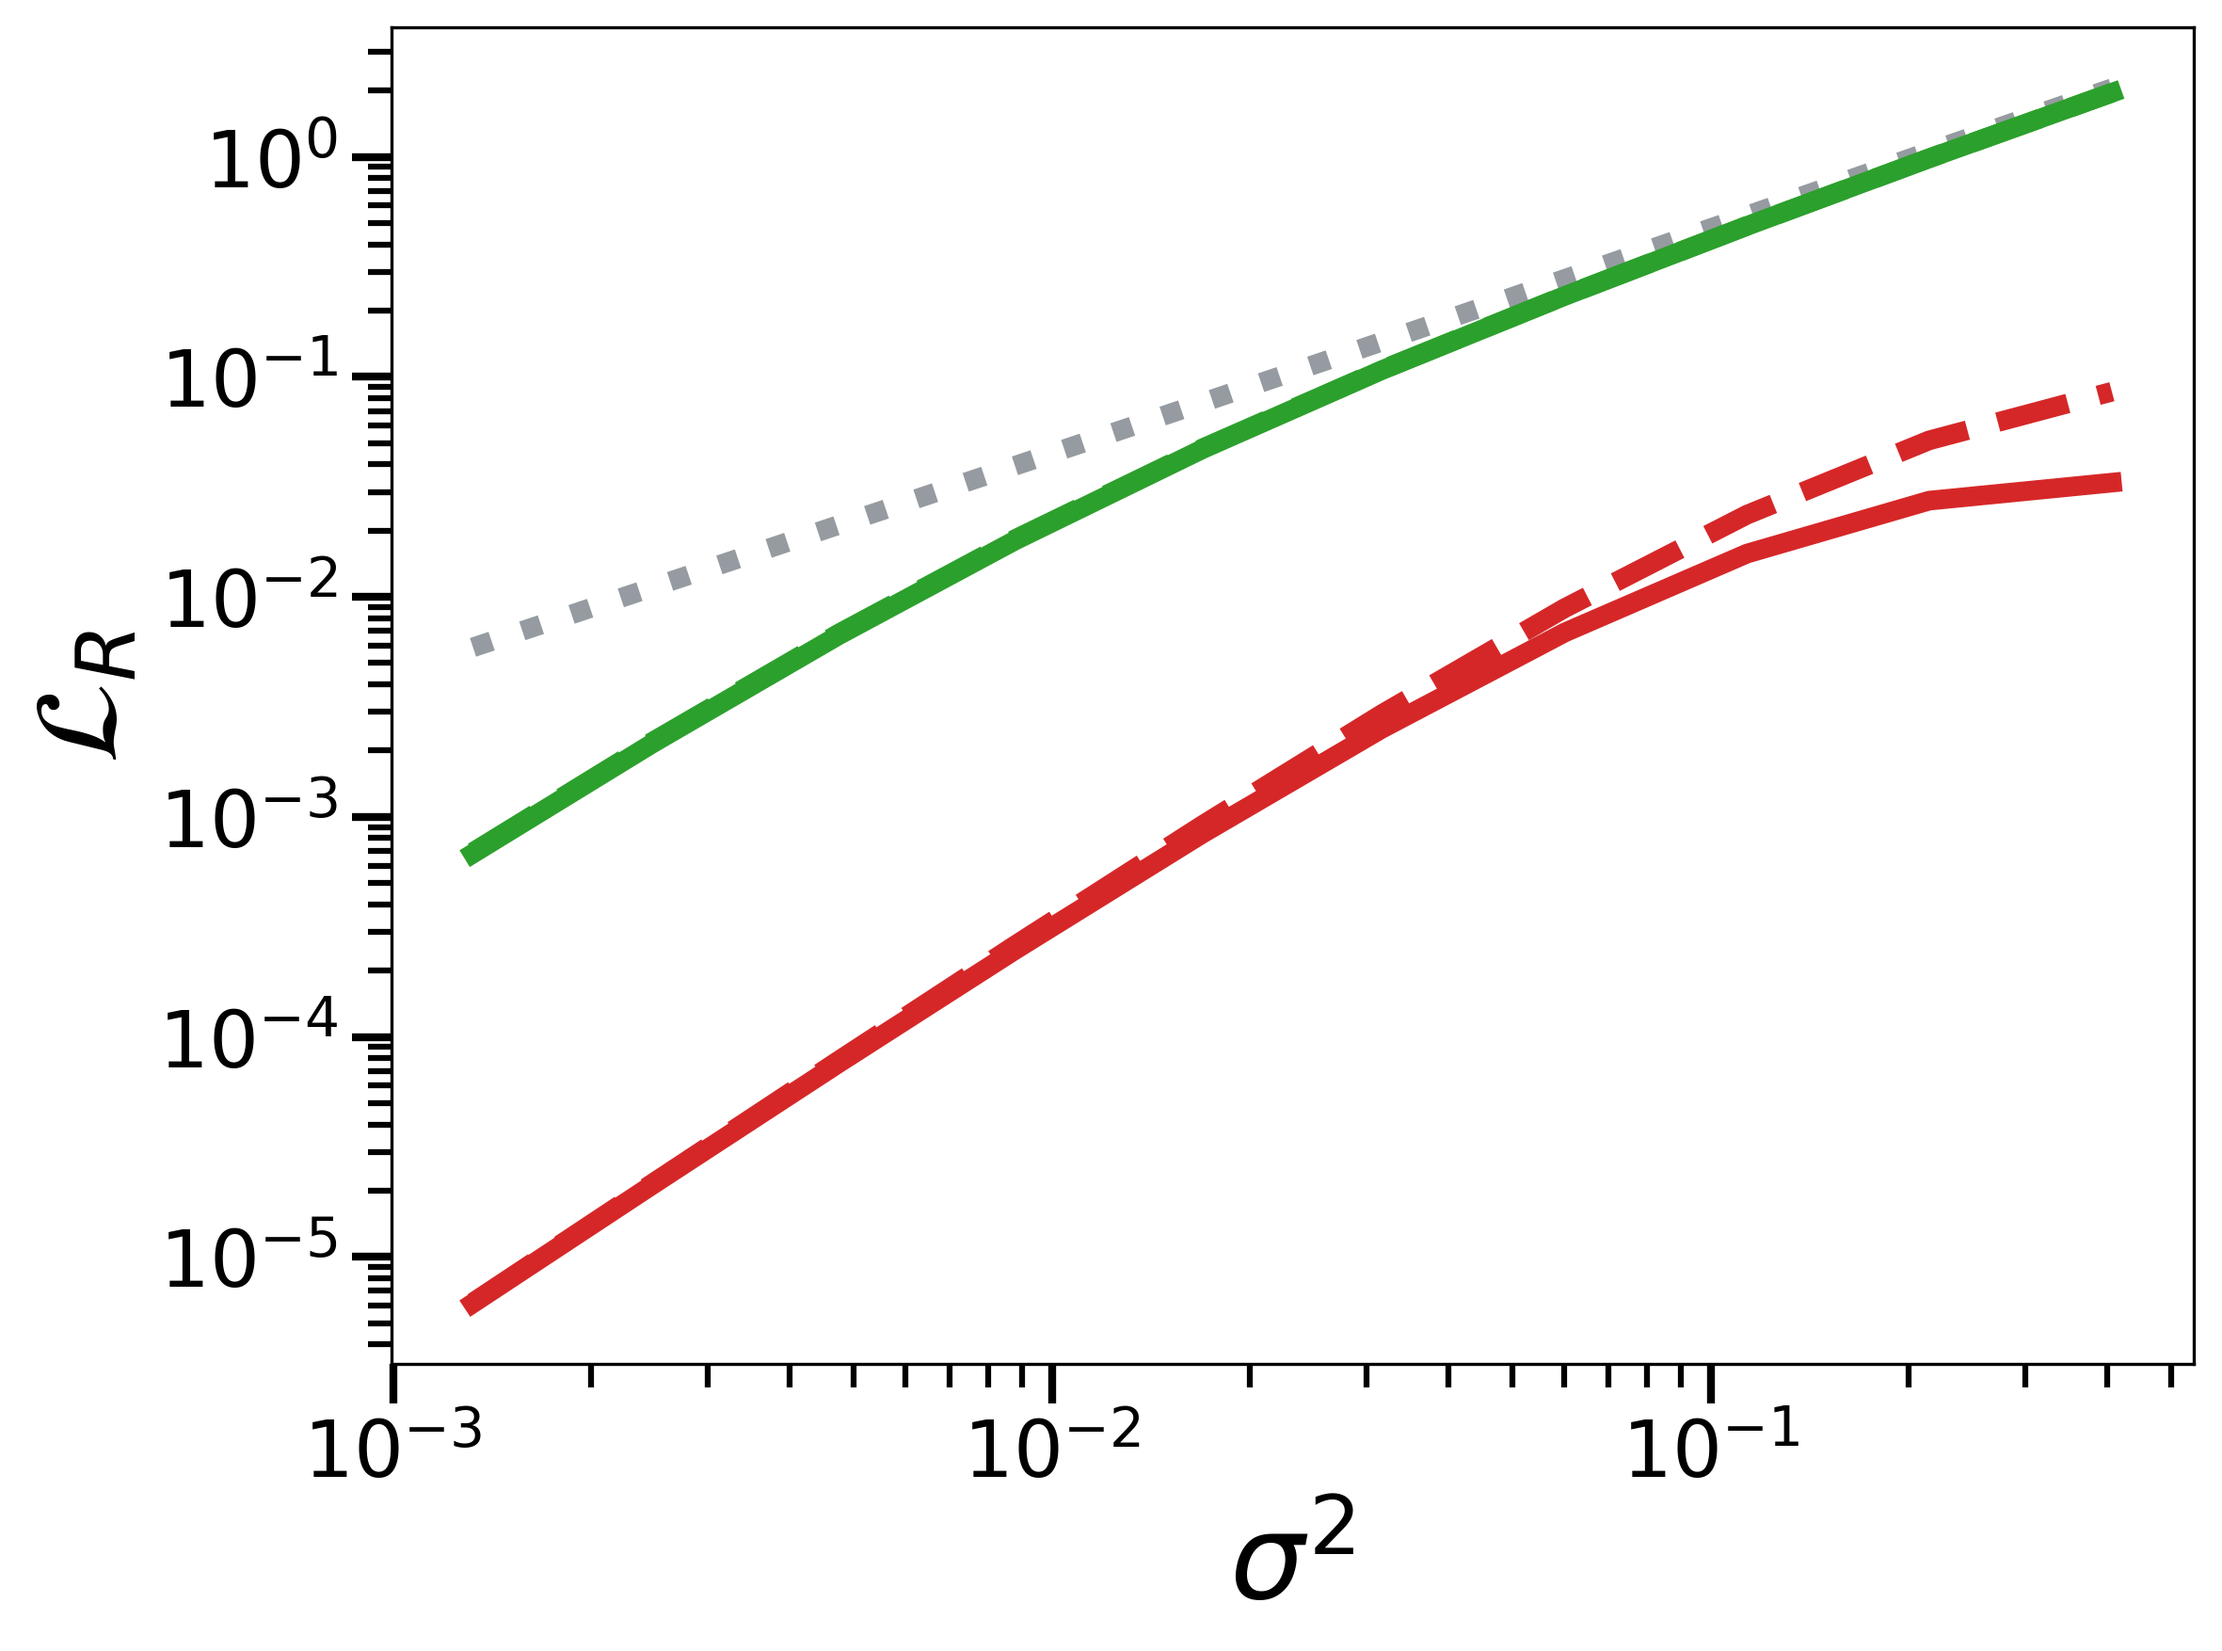
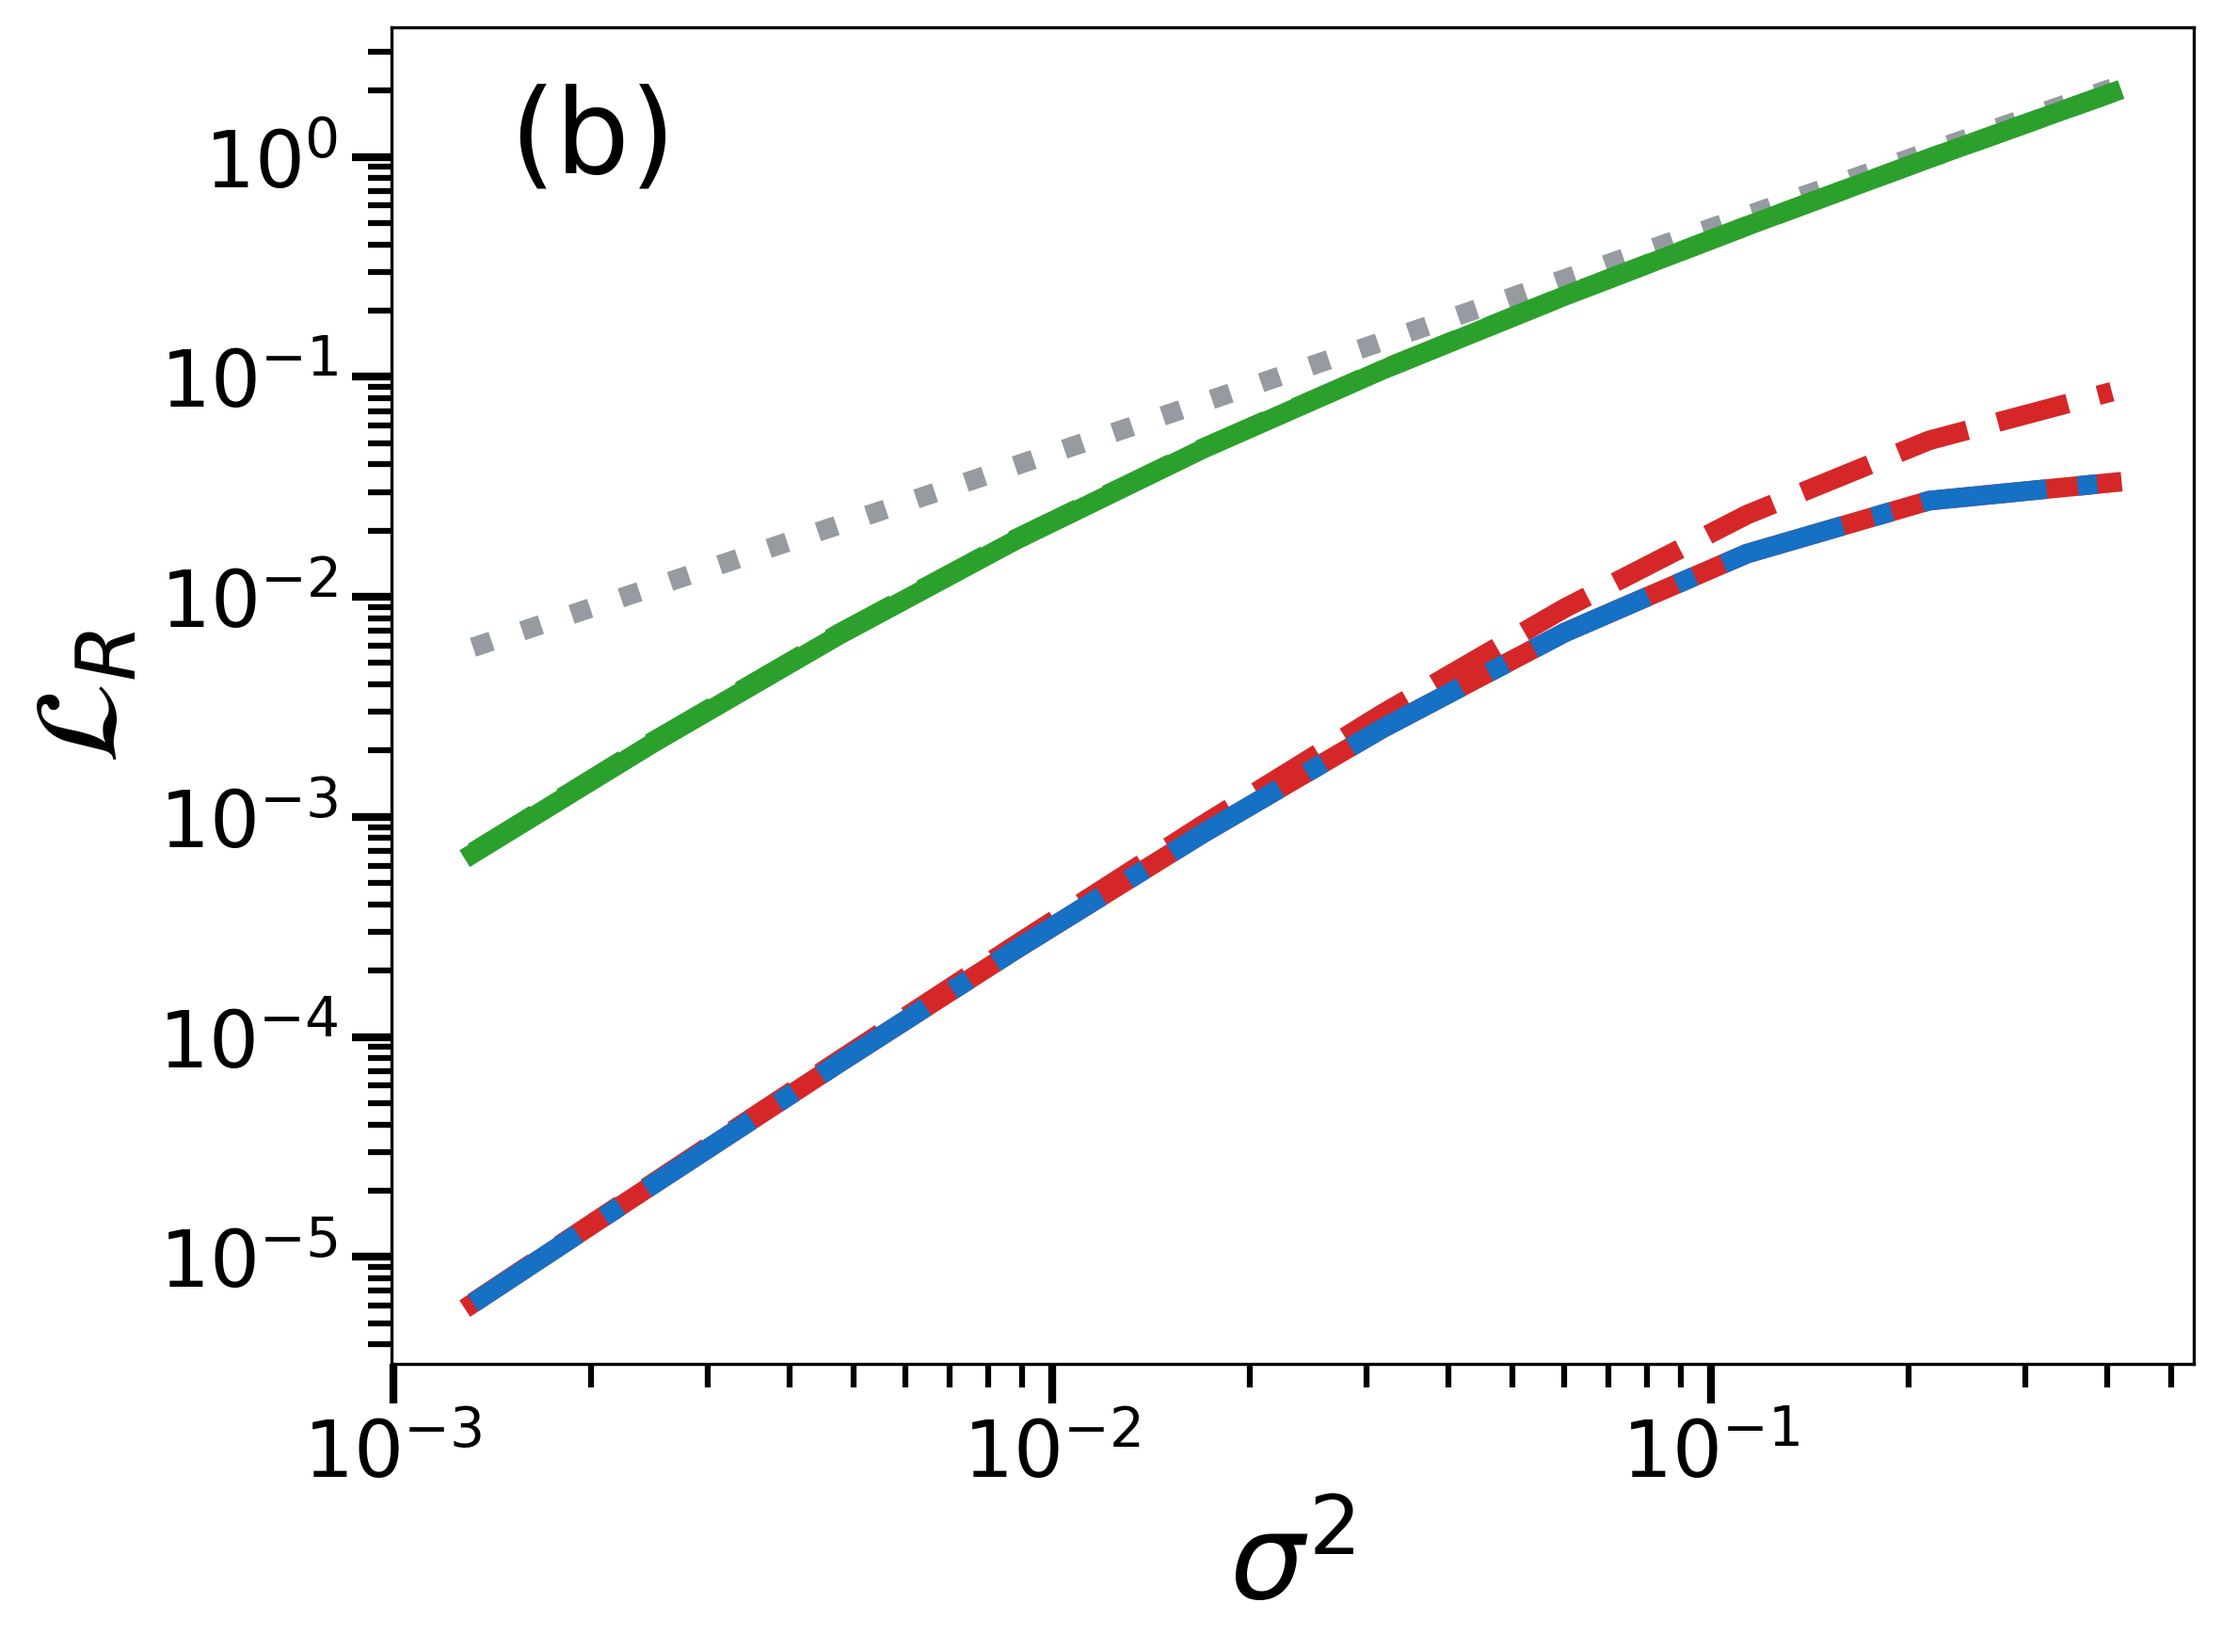
Added homodyne and updated plots to displacement

diff --git a/examples/displacement/gaussian_bayesian_displacement.py b/examples/displacement/gaussian_bayesian_displacement.py
@@ -24,6 +24,7 @@ sigma2_unicode = '\u03C3\u00B2'
 alpha_unicode = '\u03B1'
 theta_unicode = '\u03B8'
 nbar_unicode = '\u0304n' 
+phi_unicode = '\u03D5'
 
 # ------------------------------------------------- Functions -------------------------------------------------
 
@@ -208,6 +209,18 @@ def thermal_state_varying(n_bar):
     return rho_th
 """
 
+def msl_homodyne_func(phi_homodyne, rho0, rho1, lambda_val):
+    """
+    Compute MSL for homodyne measurement at angle phi with posterior mean estimator.
+    
+    Homodyne at angle phi measures the quadrature: x_phi = x*cos(phi) + p*sin(phi)
+    """
+    # Construct rotated quadrature operator
+    x_phi = x * np.cos(phi_homodyne) + p * np.sin(phi_homodyne)
+    
+    # Homodyne is a PVM in the eigenbasis of x_phi
+    return msl_bayes_for_pvm(x_phi, rho0, rho1, lambda_val)
+
 def msl_bayes_for_pvm(S_op, rho0, rho1, lambda_val):
     """
     Compute Bayes MSL for the PVM defined by the spectral decomposition of S_op.
@@ -374,8 +387,13 @@ def compute_msl_for_prior_width(theta_sigma, theta0=0.0, prior_type='gaussian'):
 
     msl_linear_quad_analytic =  msl_bayes_for_pvm(S_linear_quad_analytic, rho0, rho1, lambda_val)
 
+    # Homodyne measurement at an angle phi + PM estimator
+    msl_homodyne = msl_homodyne_func(phi_homodyne, rho0, rho1, lambda_val)
+
     return (msl_bayes, msl_linear, msl_quad, msl_linear_quad, 
-            alpha_opt_linear, alpha_opt_quad, alpha_opt_linear_quad, prior_var,msl_linear_bayes,msl_quad_bayes,msl_linear_quad_bayes,msl_prior,msl_linear_quad_analytic)
+            alpha_opt_linear, alpha_opt_quad, alpha_opt_linear_quad, 
+            prior_var,msl_linear_bayes,msl_quad_bayes,msl_linear_quad_bayes,
+            msl_prior,msl_linear_quad_analytic,msl_homodyne)
 
 
 def compute_sigma(theta_sigma): 
@@ -411,6 +429,8 @@ theta_max=params['theta_max']
 sigma_max=params['sigma_max'] # Max standard deviation of a Gaussian prior which is 99.7% contained in the prior range
 theta_sigma_values=params['theta_sigma_values'] # Range of prior widths to test
 
+phi_homodyne=0 # Angle of homodyne measurement. 0 and pi/2 corresponds to x and p quadratures respectively
+
 # Ladder operators in truncated Fock basis
 a = np.zeros((N, N), dtype=complex)
 for n in range(1, N):
@@ -438,6 +458,7 @@ if __name__ == '__main__':
     msl_quad_bayes_list = []
     msl_linear_quad_bayes_list = []
     msl_linear_quad_analytic_list = []
+    msl_homodyne_list = []
 
     print("="*70)
     print(f"Estimating displacement theta along x quadrature")
@@ -485,7 +506,7 @@ if __name__ == '__main__':
             unit="sigma"
         ))
     for res in results:
-        msl_b, msl_l, msl_q, msl_c, alpha_l, alpha_q, alpha_c, prior_var,msl_bayes_l,msl_bayes_q,msl_bayes_c,msl_prior,msl_lq_analytic= res
+        msl_b, msl_l, msl_q, msl_c, alpha_l, alpha_q, alpha_c, prior_var,msl_bayes_l,msl_bayes_q,msl_bayes_c,msl_prior,msl_lq_analytic,msl_hom= res
         msl_bayes_list.append(msl_b)
         msl_prior_list.append(msl_prior)
         msl_linear_list.append(msl_l)
@@ -496,11 +517,11 @@ if __name__ == '__main__':
         alpha_opt_linear_quad_list.append(alpha_c)
         prior_variance_list.append(prior_var)
         # alpha_opt_prior_list.append(alpha_prior)
-        # msl_prior_list.append(msl_prior)
         msl_linear_bayes_list.append(msl_bayes_l)
         msl_quad_bayes_list.append(msl_bayes_q)
         msl_linear_quad_bayes_list.append(msl_bayes_c)
         msl_linear_quad_analytic_list.append(msl_lq_analytic)
+        msl_homodyne_list.append(msl_hom)
 
     # Convert to arrays
     prior_variance_list = np.array(prior_variance_list)
@@ -513,6 +534,7 @@ if __name__ == '__main__':
     msl_quad_bayes_arr = np.array(msl_quad_bayes_list)
     msl_linear_quad_bayes_arr = np.array(msl_linear_quad_bayes_list)
     msl_linear_quad_analytic_arr=np.array(msl_linear_quad_analytic_list)
+    msl_homodyne_arr = np.array(msl_homodyne_list)
 
     """
     4x4 set of plots. Each as a function of the prior width.
@@ -642,6 +664,7 @@ if __name__ == '__main__':
     ratio_quad_bayes = np.maximum((msl_quad_bayes_arr - msl_bayes_arr) / np.abs(msl_bayes_arr), eps) 
     ratio_linear_quad =np.maximum((msl_linear_quad_arr - msl_bayes_arr) / np.abs(msl_bayes_arr), eps) 
     ratio_linear_quad_bayes =np.maximum((msl_linear_quad_bayes_arr - msl_bayes_arr) / np.abs(msl_bayes_arr), eps)
+    ratio_homodyne = msl_homodyne_arr / msl_bayes_arr-1
 
     lw_main = 5 # Linewidth
 
@@ -654,6 +677,7 @@ if __name__ == '__main__':
     #ax2.loglog(prior_variance_list, ratio_linear_quad, '--', linewidth=lw_main, label='Linear & Quadratic', color="#2c70a0")
     #ax2.loglog(prior_variance_list, ratio_linear_quad_bayes, '-', linewidth=lw_main, label='Linear & Quadratic (PM)', color="#2c70a0")
     #ax2.loglog(prior_variance_list, ratio_linear_quad_bayes, '--', linewidth=lw_main, label='Linear & Quadratic (PM) Analytic', color="#9b1b93")
+    ax2.loglog(prior_variance_list, ratio_homodyne,linestyle='-.', linewidth=lw_main,color="#1670C4", label=f'Homodyne {phi_unicode}={phi_homodyne:.2f}')
     ax2.set_xlabel('$\\sigma^2$', fontsize=30)
     ax2.set_ylabel('$\\mathcal{L}_R$', fontsize=30) 
     ax2.legend(fontsize=20)
@@ -661,7 +685,7 @@ if __name__ == '__main__':
     ax2.tick_params(axis='both', which='major',length=10, width=2, labelsize=20)
     ax2.tick_params(axis='both', which='minor', length=6, width=1.5)
     ax2.grid(False)
-    #plt.text(0.0015, 0.85, '(b)', fontsize=30)
+    plt.text(0.0015, 0.85, '(b)', fontsize=30)
     #plt.text(0.004, 5, '(a)', fontsize=30)
     fig2.tight_layout()
     # fig2.savefig(f'{output_dir}/ratio_vs_variance_{ref_state_type}_{prior_type}.png', dpi=300, bbox_inches='tight')
